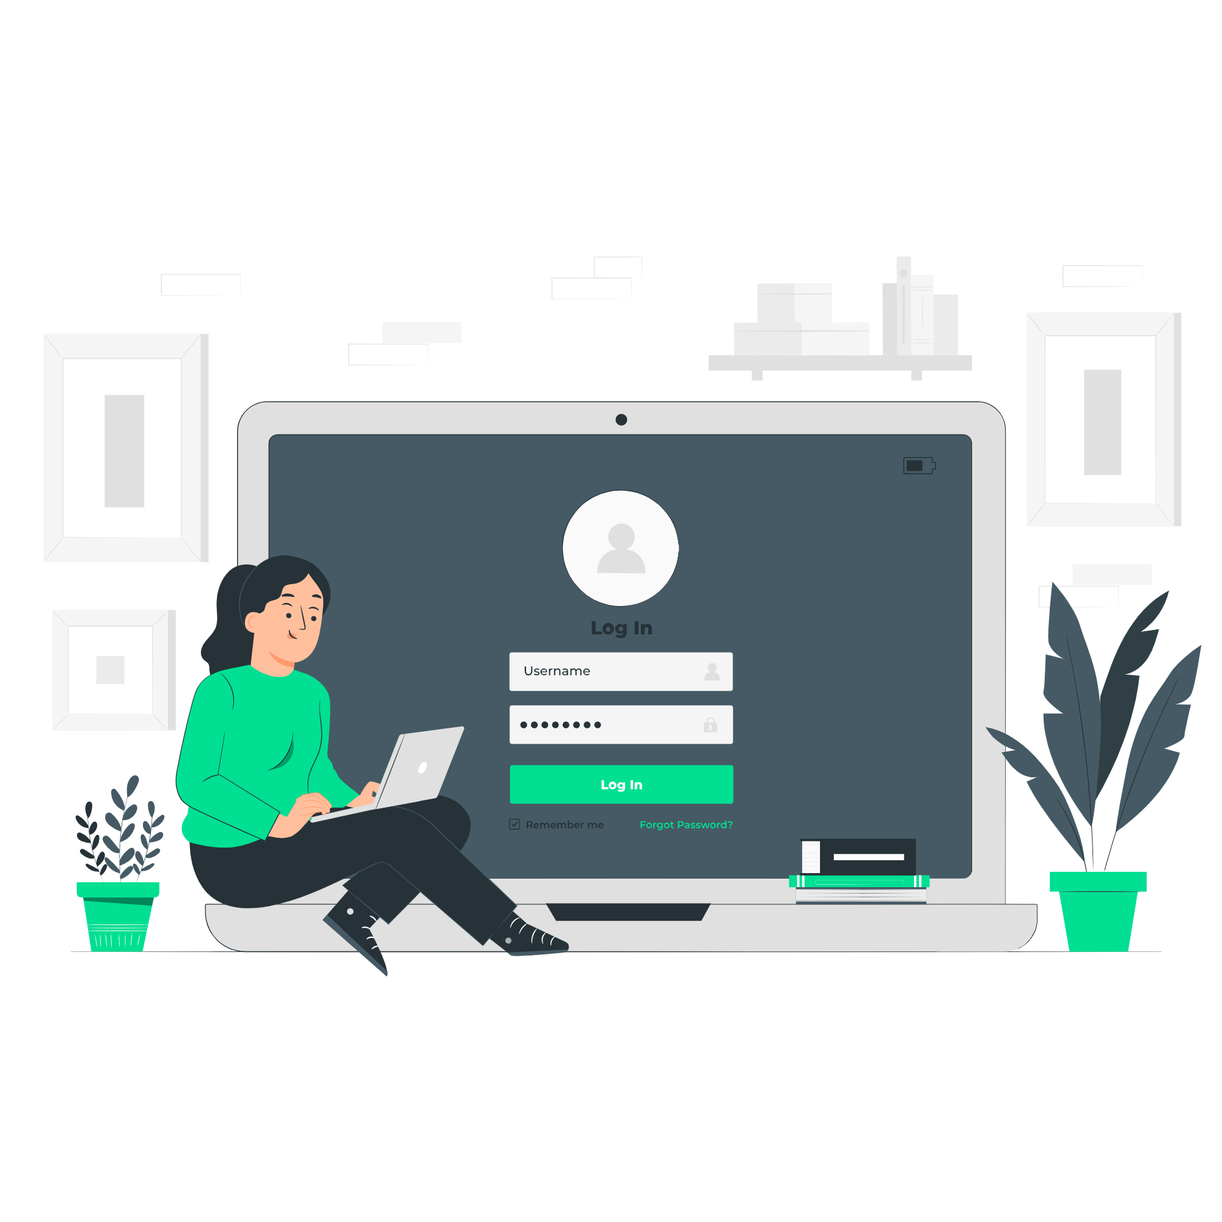
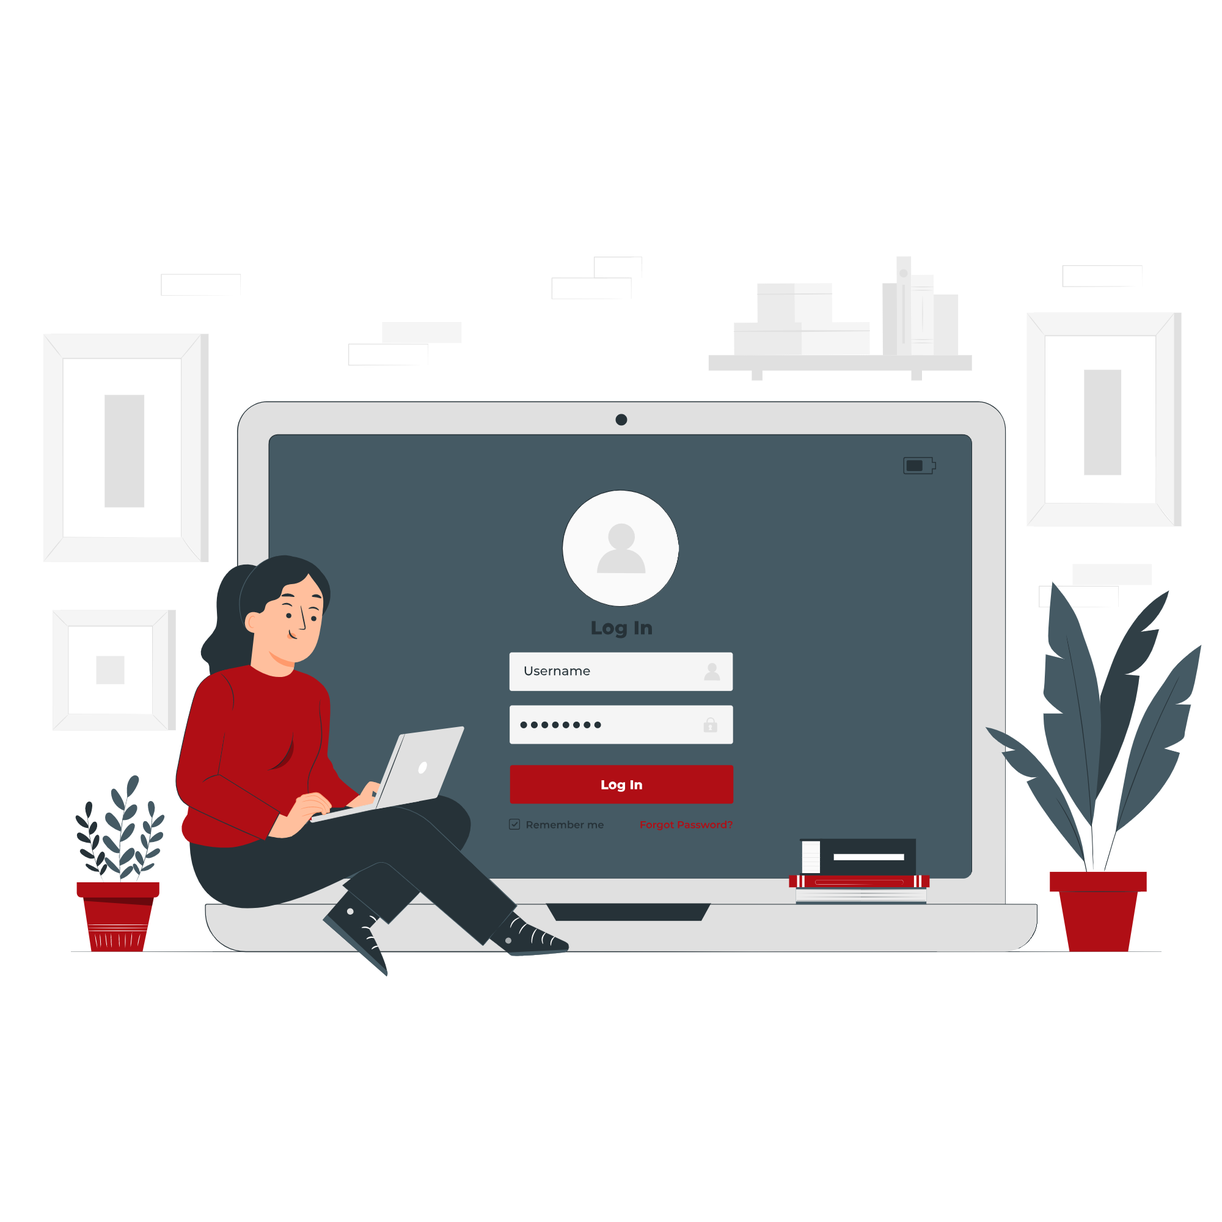
change color theory and try to fix some errors.

diff --git a/src/components/OurCenter.js b/src/components/OurCenter.js
@@ -4,7 +4,7 @@ import us from '../assets/us.png';
 import service1 from '../assets/service1.png';
 import service2 from '../assets/service2.png';
 import {
-  FaFacebookSquare
+   FaPhoneAlt
 } from 'react-icons/fa';
 
 export default function OurCenter() {
@@ -41,7 +41,7 @@ export default function OurCenter() {
       <label>Message</label><br></br>
       <textarea className='p-2 outline flex w-50% rounded-md text-black mr-2 md:w-full w-full' name="message" placeholder='Write us a message'/>
       </div>
-      <input className='bg-[#00df9a] w-[200px] rounded-md font-medium my-4 mx-auto py-1 text-black' type="submit" value="Send" />
+      <input className='bg-[#B00E15] w-[200px] rounded-md font-medium my-4 mx-auto py-1 text-white' type="submit" value="Send" />
     </form>
     
     {/* location data */}
@@ -51,37 +51,37 @@ export default function OurCenter() {
     
     </div>
     <div className='w-full py-16 px-4 bg-white'>
-      <h1 className='mx-auto text-bold text-[#00df9a] text-center pb-10 md:text-4xl sm:text-3xl text-2xl'>Our Centers</h1>
+      <h1 className='mx-auto text-bold text-[#B00E15] text-center pb-10 md:text-4xl sm:text-3xl text-2xl'>Our Centers</h1>
        <div className='max-w-[1240px] mx-auto grid md:grid-cols-3 gap-8'>
           <div className='w-full shadow-xl flex flex-col p-4 my-4 rounded-lg hover:scale-105 duration-300'>
             <img className='w-10 mx-auto mt-[-2rem] bg-white' src={service1} alt="" />
             <h2 className='font-bold text-xl text-center py-4'>Office</h2>
             <h2 className='font-medium text-xl text-center'> Jaipur, Rajasthan</h2>
             <p className='text-center'>Lorem ipsum dolor sit amet consectetur adipisicing elit. Amet, libero.</p>
-            <div className='text-center rounded-md font-medium my-4 mx-auto py-1 flex'><FaFacebookSquare size={25} /><p>+7987645632</p></div>
-            {/* <button className='text-center bg-[#00df9a] w-[200px] rounded-md font-medium my-4 mx-auto py-1 text-black'>Explore</button> */}
+            <div className='text-center rounded-md font-medium my-4 mx-auto py-1 flex'><FaPhoneAlt size={22} className="mr-1" /><p>+7987645632</p></div>
+            {/* <button className='text-center bg-[#B00E15] w-[200px] rounded-md font-medium my-4 mx-auto py-1 text-black'>Explore</button> */}
           </div>
           <div className='w-full shadow-xl bg-gray-100 flex flex-col p-4 md:my-0 my-4 rounded-lg hover:scale-105 duration-300'>
             <img className='w-10 mx-auto mt-[-2rem] bg-gray' src={service2} alt="" />
             <h2 className='font-bold text-xl text-center py-4'>Head-Office</h2>
             <h2 className='font-medium text-xl text-center'>Bangalore, karnataka</h2>
             <p className='text-center'>We have all the hotels that have all the precaution for a covid safe environment and also have a healthy staff.</p>
-            <div className='text-center rounded-md font-medium my-4 mx-auto py-1 flex'><FaFacebookSquare size={25} /><p>+7987645632</p></div>
-            {/* <button className='text-center bg-black w-[200px] rounded-md font-medium my-4 mx-auto py-1 text-[#00df9a]'>Explore</button> */}
+            <div className='text-center rounded-md font-medium my-4 mx-auto py-1 flex'><FaPhoneAlt size={22} className="mr-1" /><p>+7987645632</p></div>
+            {/* <button className='text-center bg-black w-[200px] rounded-md font-medium my-4 mx-auto py-1 text-[#B00E15]'>Explore</button> */}
           </div>
           <div className='w-full shadow-xl flex flex-col p-4 my-4 rounded-lg hover:scale-105 duration-300'>
             <img className='w-10 mx-auto mt-[-2rem] bg-white' src={service1} alt="" />
             <h2 className='font-bold text-xl text-center py-4'>Office</h2>
             <h2 className='font-medium text-xl text-center'>Mumbhi, M.H</h2>
             <p className='text-center'>Find the best hotels and places to visit near you in a single click</p>
-            <div className='text-center rounded-md font-medium my-4 mx-auto py-1 flex'><FaFacebookSquare size={25} /><p>+7987645632</p></div>
-            {/* <button className='text-center bg-[#00df9a] w-[200px] rounded-md font-medium my-4 mx-auto  py-1 text-black'>Explore</button> */}
+            <div className='text-center rounded-md font-medium my-4 mx-auto py-1 flex'><FaPhoneAlt size={22} className="mr-1" /><p>+7987645632</p></div>
+            {/* <button className='text-center bg-[#B00E15] w-[200px] rounded-md font-medium my-4 mx-auto  py-1 text-black'>Explore</button> */}
           </div>
        </div>
     </div>
     <div className="mapouter w-full py-16 px-4">
       <div className="gmap_canvas max-w-[1240px] mx-auto">
-        <iframe className='w-[100%] h-[350px]' id="gmap_canvas" src="https://maps.google.com/maps?q=redbus%20booking&t=&z=5&ie=UTF8&iwloc=&output=embed" frameborder="0" scrolling="no" marginheight="0" marginwidth="0"></iframe>
+        <iframe className='w-[100%] h-[350px]' id="gmap_canvas" src="https://maps.google.com/maps?q=redbus%20booking&t=&z=5&ie=UTF8&iwloc=&output=embed" ></iframe>
         </div>
         </div>
     </>

diff --git a/src/Registration.js b/src/Registration.js
@@ -6,17 +6,14 @@ import form from './assets/form.png'
 
 export default function Registration() {
 
-  
-
-
-  // const { register, handleSubmit, errors } =useForm();
   const {
     register,
     formState: { errors },
     handleSubmit, watch
   } = useForm({
-    // mode: "onBlur",
+    mode: "onBlur",
   });
+
   const password = useRef({});
   password.current = watch("password", "");
   const [userInfo, setUserInfo]=useState();
@@ -24,9 +21,11 @@ export default function Registration() {
     setUserInfo(data);
     console.log(data);
   };
+
 const [user, setUser] = useState({
   name:"", email:"", phone:"", password:"", cpassword:""
 });
+
   let name, value;
   const handelInputs = (e) => {
       console.log(e);
@@ -47,7 +46,7 @@ const [user, setUser] = useState({
     <>
     <pre className="text-white text-center">{JSON.stringify(userInfo, undefined, 2)}
     </pre>
-      <div className="bg-white max-w-[1240px] mx-auto my-8 grid md:grid-cols-2">
+      <div className="bg-white max-w-[1240px] mx-auto my-8 grid md:grid-cols-2 md:rounded-lg">
         <div className="my-auto justify-center flex">
           <img className="grid align-middle mx-auto justify-center" src={form} alt="" />
         </div>
@@ -65,7 +64,7 @@ const [user, setUser] = useState({
                 value={user.name}
                 {...register( 'name', { required: true })}
                 onChange={handelInputs}
-                placeholder="Enter your Name"
+                placeholder="Enter your Name" autoComplete="false"
               />
               <hr></hr>
               {errors.name && <p className="text-red-400 mt-1">Username is required</p>}
@@ -78,7 +77,7 @@ const [user, setUser] = useState({
                 value={user.email}
                 {...register("email", { required: true, pattern: /^[A-Z0-9._%+-]+@[A-Z0-9.-]+\.[A-Z]{3,4}$/i })}
                 onChange={handelInputs}
-                placeholder="Enter Your Email" 
+                placeholder="Enter Your Email"
               /><hr></hr>
               {errors.email && <p className="text-red-400 mt-1">Email is invalid</p>}
             </div>
@@ -90,7 +89,7 @@ const [user, setUser] = useState({
                 value={user.phone}
                 {...register("phone", {required: true, pattern: /^(?:(?:\+|0{0,2})91(\s*[\-]\s*)?|[0]?)?[6789]\d{9}$/ })}
                 onChange={handelInputs} 
-                placeholder="Your Phone" 
+                placeholder="Your Phone" autoComplete="false"
               /><hr></hr>
               {errors.phone && <p className="text-red-400 mt-1">Number is invalid</p>}
             </div>
@@ -102,7 +101,7 @@ const [user, setUser] = useState({
                 value={user.password}
                 {...register("password", { required: true, pattern: /^(?=.*[0-9])(?=.*[!@#$%^&*])[a-zA-Z0-9!@#$%^&*]{6,99}$/ })}
                 onChange={handelInputs}
-                placeholder="Your Password" 
+                placeholder="Your Password" autoComplete="false"
               /><hr></hr>
               {errors.password && <p className="text-red-400 mt-1">Password should contane min. 6 words, Capital Letter, Small Letter , Number and Symbol</p>}
             </div>
@@ -114,13 +113,13 @@ const [user, setUser] = useState({
                 value={user.cpassword}
                 {...register("cpassword", { required: true, validate: value => value===password.current })}
                 onChange={handelInputs}
-                placeholder="Confirm Your Password" 
+                placeholder="Confirm Your Password" autoComplete="false"
               /><hr></hr>
               {errors.cpassword && <p className="text-red-400 mt-1">Confirm your password</p>}
             </div>
 
             <input
-              className="bg-[#00df9a] w-[200px] rounded-md font-medium my-4 mx-auto py-1 text-black hover:opacity-70 hover:scale-105 duration-300"
+              className="bg-[#B00E15] w-[200px] rounded-md font-medium my-4 mx-auto py-1 text-white hover:opacity-70 hover:scale-105 duration-300"
               type="submit"
               value="Registre Now"
               // onClick={handleClick}

diff --git a/src/components/Testimony.js b/src/components/Testimony.js
@@ -7,28 +7,28 @@ import {
 export default function Testimony() {
   return (
     <div className='w-full py-16 px-4 bg-white'>
-      <h1 className='mx-auto text-bold text-[#00df9a] text-center pb-10 md:text-3xl sm:text-2xl text-2xl'>What People Think...</h1>
+      <h1 className='mx-auto text-bold text-[#B00E15] text-center pb-10 md:text-3xl sm:text-2xl text-2xl'>What People Think...</h1>
        <div className='max-w-[1240px] mx-auto grid md:grid-cols-3 gap-8'>
           <div className='w-full shadow-xl flex flex-col p-4 my-4 rounded-lg hover:scale-105 duration-300'>
             <img className='w-10 mx-auto mt-[-2rem] bg-white rounded-full' src={user2} alt="" />
             <h2 className='font-bold text-xl text-center py-4'>Rahul Dhote</h2>
             <p className='text-left'>Pay through our application and save thousands and get amazing rewards</p>
             <p className='text-left flex py-2 space-x-1'><FaStar size={20} color='#ffa534'/> <FaStar size={20} color='#ffa534' /> <FaStar size={20} color='#ffa534' /> <FaStar size={20} color='#ffa534' /> <FaStarHalfAlt size={20} color='#ffa534'/> </p>
-            {/* <button className='text-center bg-[#00df9a] w-[200px] rounded-md font-medium my-4 mx-auto py-1 text-black'>Explore</button> */}
+            {/* <button className='text-center bg-[#B00E15] w-[200px] rounded-md font-medium my-4 mx-auto py-1 text-black'>Explore</button> */}
           </div>
           <div className='w-full shadow-xl bg-gray-100 flex flex-col p-4 md:my-0 my-4 rounded-lg hover:scale-105 duration-300'>
             <img className='w-10 mx-auto mt-[-2rem] bg-gray rounded-full' src={user2} alt="" />
             <h2 className='font-bold text-xl text-center py-4'>Pratik singh</h2>
             <p className='text-left'>We have all the hotels that have all the precaution for a covid safe environment and also have a healthy staff.</p>
             <p className='text-left flex py-2 space-x-1'><FaStar size={20} color='#ffa534'/> <FaStar size={20} color='#ffa534' /> <FaStar size={20} color='#ffa534' /> <FaStar size={20} color='#ffa534' /> <FaStar size={20} color='#ffa534' /> </p>
-            {/* <button className='text-center bg-black w-[200px] rounded-md font-medium my-4 mx-auto py-1 text-[#00df9a]'>Explore</button> */}
+            {/* <button className='text-center bg-black w-[200px] rounded-md font-medium my-4 mx-auto py-1 text-[#B00E15]'>Explore</button> */}
           </div>
           <div className='w-full shadow-xl flex flex-col p-4 my-4 rounded-lg hover:scale-105 duration-300'>
             <img className='w-10 mx-auto mt-[-2rem] bg-white rounded-full' src={user2} alt="" />
             <h2 className='font-bold text-xl text-center py-4'>Rahul Khawse</h2>
             <p className='text-left'>Find the best hotels and places to visit near you in a single click</p>
             <p className='text-left flex py-2 space-x-1'><FaStar size={20} color='#ffa534'/> <FaStar size={20} color='#ffa534' /> <FaStar size={20} color='#ffa534' /> <FaStar size={20} color='#ffa534' /> <FaStarHalfAlt size={20} color='#ffa534'/> </p>
-            {/* <button className='text-center bg-[#00df9a] w-[200px] rounded-md font-medium my-4 mx-auto  py-1 text-black'>Explore</button> */}
+            {/* <button className='text-center bg-[#B00E15] w-[200px] rounded-md font-medium my-4 mx-auto  py-1 text-black'>Explore</button> */}
           </div>
        </div>
     </div>

diff --git a/src/components/Aboutus2.js b/src/components/Aboutus2.js
@@ -5,14 +5,14 @@ import amico from '../assets/amico.png'
 export default function Aboutus2() {
   return (
     <div className='w-full bg-white py-16 px-4 '>
-      <h1 className='mx-auto text-bold text-[#00df9a] text-center pb-4 md:text-4xl sm:text-3xl text-3xl'>About us</h1><hr className='w-[15%] mx-auto '></hr>
+      <h1 className='mx-auto text-bold text-[#B00E15] text-center pb-4 md:text-4xl sm:text-3xl text-3xl'>About us</h1><hr className='w-[15%] mx-auto '></hr>
       <div className='max-w-[1240px] mx-auto grid md:grid-cols-2 py-8'>
         <img className='w-[60%] h-60% md:w-[90%] md:h-[80%] my-auto mx-auto' src={work} alt="/" />
         <div className='flex flex-col justify-center pt-4 py-8'>
           <h1 className='text-bold md:text-2xl sm:text-xl text-xl'>Know what we do...</h1>
           <p>Lorem ipsum dolor sit amet consectetur adipisicing elit. Quam consequatur dignissimos provident? Minus, reiciendis magnam consequatur, expedita dolores, beatae illum repellendus aspernatur aliquid numquam error.</p>
           <p>Lorem ipsum dolor sit amet consectetur adipisicing elit. Quam consequatur dignissimos provident? Minus, reiciendis magnam consequatur, expedita dolores, beatae illum repellendus aspernatur aliquid numquam error.</p>
-          {/* <button className='bg-black w-[200px] rounded-md font-medium my-4 mx-auto md:mx-0 py-1 text-[#00df9a]'>Read More</button> */}
+          {/* <button className='bg-black w-[200px] rounded-md font-medium my-4 mx-auto md:mx-0 py-1 text-[#B00E15]'>Read More</button> */}
         </div>
       </div>
       <div className='max-w-[1240px] mx-auto py-8'>
@@ -25,7 +25,7 @@ export default function Aboutus2() {
         <div className='flex flex-col justify-center pt-4'>
           <h1 className='text-bold md:text-2xl sm:text-xl text-xl'>Our history</h1>
           <p>Lorem ipsum dolor sit amet consectetur adipisicing elit. Quam consequatur dignissimos provident? Minus, reiciendis magnam consequatur, expedita dolores, beatae illum repellendus aspernatur aliquid numquam error.Necessitatibus dicta dolorem quae iusto, saepe, fuga esse atque tenetur magni id aut fugit porro, voluptatibus quis reprehenderit! Asperiores debitis obcaecati soluta commodi beatae quod adipisci rerum, officia aliquam, esse, mollitia eum veniam ratione voluptas veritatis autem omnis repellendus corrupti sunt itaque quibusdam! Reprehenderit explicabo consectetur repudiandae aliquid labore neque laboriosam culpa id omnis aperiam sapiente incidunt reiciendis asperiores, expedita, laudantium ea molestiae commodi nobis dignissimos. Alias soluta voluptatem quia sint eligendi, modi veritatis fugit amet neque quidem sequi accusamus porro hic culpa sunt deleniti laudantium voluptatum et possimus ab natus omnis.</p>
-          {/* <button className='bg-black w-[200px] rounded-md font-medium my-4 mx-auto md:mx-0 py-1 text-[#00df9a]'>Read More</button> */}
+          {/* <button className='bg-black w-[200px] rounded-md font-medium my-4 mx-auto md:mx-0 py-1 text-[#B00E15]'>Read More</button> */}
         </div>
         <img className='w-[60%] md:h-[60%] mx-auto my-auto' src={amico} alt="/" />
       </div>

diff --git a/src/components/Service.js b/src/components/Service.js
@@ -14,21 +14,21 @@ export default function Service() {
             <h2 className='font-bold text-xl text-center py-4'>Get Best Deals</h2>
             <p className='text-center'>Pay through our application and save thousands and get amazing rewards</p>
             <a className='font-medium mx-auto text-black' href='https://pratiksingh27.github.io/traveladvice/' target="_blank" rel="noreferrer">
-              <button className='text-center bg-[#00df9a] w-[200px] rounded-md font-medium my-4 py-1 mx-auto text-black'>Explore</button>
+              <button className='text-center bg-[#B00E15] w-[200px] rounded-md font-medium my-4 py-1 mx-auto text-white'>Explore</button>
               </a>
           </div>
           <div className='w-full shadow-xl bg-gray-100 flex flex-col p-4 md:my-0 my-4 rounded-lg hover:scale-105 duration-300'>
             <img className='w-10 mx-auto mt-[-2rem] bg-gray' src={service2} alt="" />
             <h2 className='font-bold text-xl text-center py-4'>Covid Safe</h2>
             <p className='text-center'>We have all the hotels that have all the precaution for a covid safe environment and also have a healthy staff.</p>
-            <button className='text-center bg-black w-[200px] rounded-md font-medium my-4 mx-auto py-1 text-[#00df9a]'>Explore</button>
+            <button className='text-center bg-[#B00E15] w-[200px] rounded-md font-medium my-4 mx-auto py-1 text-white'>Explore</button>
           </div>
           <div className='w-full shadow-xl flex flex-col p-4 my-4 rounded-lg hover:scale-105 duration-300'>
             <img className='w-10 mx-auto mt-[-2rem] bg-white' src={service1} alt="" />
             <h2 className='font-bold text-xl text-center py-4'>Find the best</h2>
             <p className='text-center'>Find the best hotels and places to visit near you in a single click</p>
             <a className='font-medium mx-auto text-black' href='https://pratiksingh27.github.io/traveladvice/' target="_blank" rel="noreferrer">
-              <button className='text-center bg-[#00df9a] w-[200px] rounded-md font-medium my-4 py-1 mx-auto text-black hover:opacity-80'>Explore</button>
+              <button className='text-center bg-[#B00E15] w-[200px] rounded-md font-medium my-4 py-1 mx-auto text-white hover:opacity-80'>Explore</button>
               </a>
           </div>
        </div>

diff --git a/src/components/Heroo.js b/src/components/Heroo.js
@@ -8,14 +8,14 @@ export default function Heroo() {
   return (
     <div className='text-white'>
       <div className='max-w-[800px] mt-[-96px] w-full h-screen mx-auto flex text-center flex-col justify-center'>
-        <p className='text-[#00df9a] font-bold p-2'>TRAVEL WITH FUN &#9992;</p>
+        <p className='text-[#B00E15] font-bold p-2'>TRAVEL WITH FUN &#9992;</p>
         <h1 className='md:text-4xl sm:text-3xl text-2xl font-bold md:py-2'>Safar Apka, Khayal humara</h1>
         <div className='flex justify-center items-center pt-1'>
           <p className='md:text-2xl sm:text-1.5xl text-xl font-bold'>We offer </p>
           <Typed className='md:text-2xl sm:text-1.5xl text-xl font-bold pl-2' strings={[' Best deal','Best services', 'Best package']} typeSpeed={40} backSpeed={40} loop/>
         </div>
         <p className='md:text-xl sm:text-md text-gray-400 pt-2'>For exciting offer and discount, Register now</p>
-        <button className='bg-[#00df9a] w-[200px] rounded-md font-medium my-4 mx-auto py-1 text-black hover:opacity-70 hover:scale-105 duration-300'><Link to='/registration'>Register Now</Link></button>
+        <button className='bg-[#B00E15] w-[200px] rounded-md font-medium my-4 mx-auto py-1 text-black hover:opacity-70 hover:scale-105 duration-300'><Link to='/registration'>Register Now</Link></button>
       </div>
       
     </div>

diff --git a/src/components/Aboutus.js b/src/components/Aboutus.js
@@ -6,13 +6,13 @@ import work from '../assets/Work.png'
 export default function Aboutus() {
   return (
     <div className='w-full bg-white py-16 px-4'>
-      <h1 className='mx-auto text-bold text-[#00df9a] text-center pb-4 md:text-4xl sm:text-3xl text-2xl'>About us</h1>
+      <h1 className='mx-auto text-bold text-[#B00E15] text-center pb-4 md:text-4xl sm:text-3xl text-2xl'>About us</h1>
       <div className='max-w-[1240px] mx-auto grid md:grid-cols-2 py-8'>
       <img className='w-[60%] md:w-[90%] md:h-[80%] h-[60%] my-auto mx-auto' src={work} alt="/" />
         <div className='flex flex-col justify-center pt-4'>
           <h1 className='text-bold md:text-2xl sm:text-xl text-xl'>Know what we do...</h1>
           <p>Lorem ipsum dolor sit amet consectetur adipisicing elit. Quam consequatur dignissimos provident? Minus, reiciendis magnam consequatur, expedita dolores, beatae illum repellendus aspernatur aliquid numquam error.</p>
-          <button className='bg-black w-[200px] rounded-md font-medium my-4 mx-auto md:mx-0 py-1 text-[#00df9a]'>Read More</button>
+          <button className='bg-black w-[200px] rounded-md font-medium my-4 mx-auto md:mx-0 py-1 text-white'>Read More</button>
         </div>
       </div>
     </div>

diff --git a/src/components/Menubar.js b/src/components/Menubar.js
@@ -12,7 +12,7 @@ export default function Menubar() {
   }
   return (
     <div className='flex  justify-between items-center h-24 max-w-[1240px] mx-auto px-4 text-white'>
-      <h1 className='w-full text-2xl font-bold text-[#00df9a]'><a href='/'>Shubh_Yatra</a></h1>
+      <h1 className='w-full text-2xl font-bold text-[#B00E15]'><a href='/'>Shubh_Yatra</a></h1>
       <ul className='hidden md:flex'>
         <li className='p-4'><NavLink to="/">Home</NavLink></li>
         <li className='p-4'><NavLink to="/about">About</NavLink></li>
@@ -25,7 +25,7 @@ export default function Menubar() {
         {/* <AiOutlineMenu size={20} /> */}
       </div>
       <div className={nav ? 'fixed left-0 top-0 w-[50%] border-r h-full border-r-gray-900 bg-[#000300] ease-in-out duration-500' : 'fixed left-[-100%] ease-in-out'}>
-      <h1 className='w-full text-3xl font-bold text-[#00df9a] m-4'>Shubh_Yatra</h1>
+      <h1 className='w-full text-3xl font-bold text-[#B00E15] m-4'>Shubh_Yatra</h1>
         <ul className='pt-0 uppercase p-4'>
         <li className='p-4 border-b border-gray-600'><NavLink to="/">Home</NavLink></li>
         <li className='p-4 border-b border-gray-600'><NavLink to="/about">About</NavLink></li>

diff --git a/src/components/NewsLetter.js b/src/components/NewsLetter.js
@@ -11,9 +11,9 @@ export default function NewsLetter() {
       <div className='my-4 px-4'> 
         <div className='flex flex-col sm:flex-row items-center justify-between w-full mx-auto'>
             <input className='p-2 flex w-full rounded-md text-black mr-2' type="email" placeholder='Enter Email' />
-            <button className='bg-[#00df9a] w-[200px] rounded-md font-medium my-4 px-4 mx-auto py-1 text-black'>Notify Me</button>
+            <button className='bg-[#B00E15] w-[200px] rounded-md font-medium my-4 px-4 mx-auto py-1 text-white'>Notify Me</button>
         </div>
-        <p>We care about the protection of your data. Read our <span className='text-[#00df9a]'>Privacy Policy</span>.</p>
+        <p>We care about the protection of your data. Read our <span className='text-[#B00E15]'>Privacy Policy</span>.</p>
       </div>
       
       </div>

diff --git a/src/LogIn.js b/src/LogIn.js
@@ -24,7 +24,7 @@ export default function LogIn() {
   return (
     <>
 
-      <div className="bg-white max-w-[1240px] mx-auto my-8 grid md:grid-cols-2">
+      <div className="bg-white max-w-[1240px] mx-auto my-8 grid md:grid-cols-2 md:rounded-lg">
         <div>
           <img className='h-[400px] justify-center mx-auto' src={form} alt="" />
         </div>
@@ -58,7 +58,7 @@ export default function LogIn() {
             </div>
           {/* button part */}
             <input
-              className="bg-[#00df9a] w-[200px] rounded-md font-medium my-4 mx-auto py-1 text-black hover:opacity-70 hover:scale-105 duration-300"
+              className="bg-[#B00E15] w-[200px] rounded-md font-medium my-4 mx-auto py-1 text-white hover:opacity-70 hover:scale-105 duration-300"
               type="submit"
               value="LogIn"
             />

diff --git a/src/components/Footer.js b/src/components/Footer.js
@@ -8,7 +8,7 @@ export default function Footer() {
   return (
     <div className='max-w-[1240px] mx-auto py-16 px-4 grid lg:grid-cols-2 gap-8 text-gray-300'>
       <div>
-      <h1 className='w-full text-2xl font-bold text-[#00df9a]'>Shubh_Yatra</h1>
+      <h1 className='w-full text-2xl font-bold text-[#B00E15]'>Shubh_Yatra</h1>
       <p className='py-4'> Nulla possimus illum, ut sequi facere saepe distinctio impedit iste a provident, nihil vitae cum nemo quam, odio placeat at velit veniam molestiae? Iusto, fugit ducimus.</p>
       <div className='flex md:w-[75%] my-6 justify-between'>
         <FaFacebookSquare size={25} />
